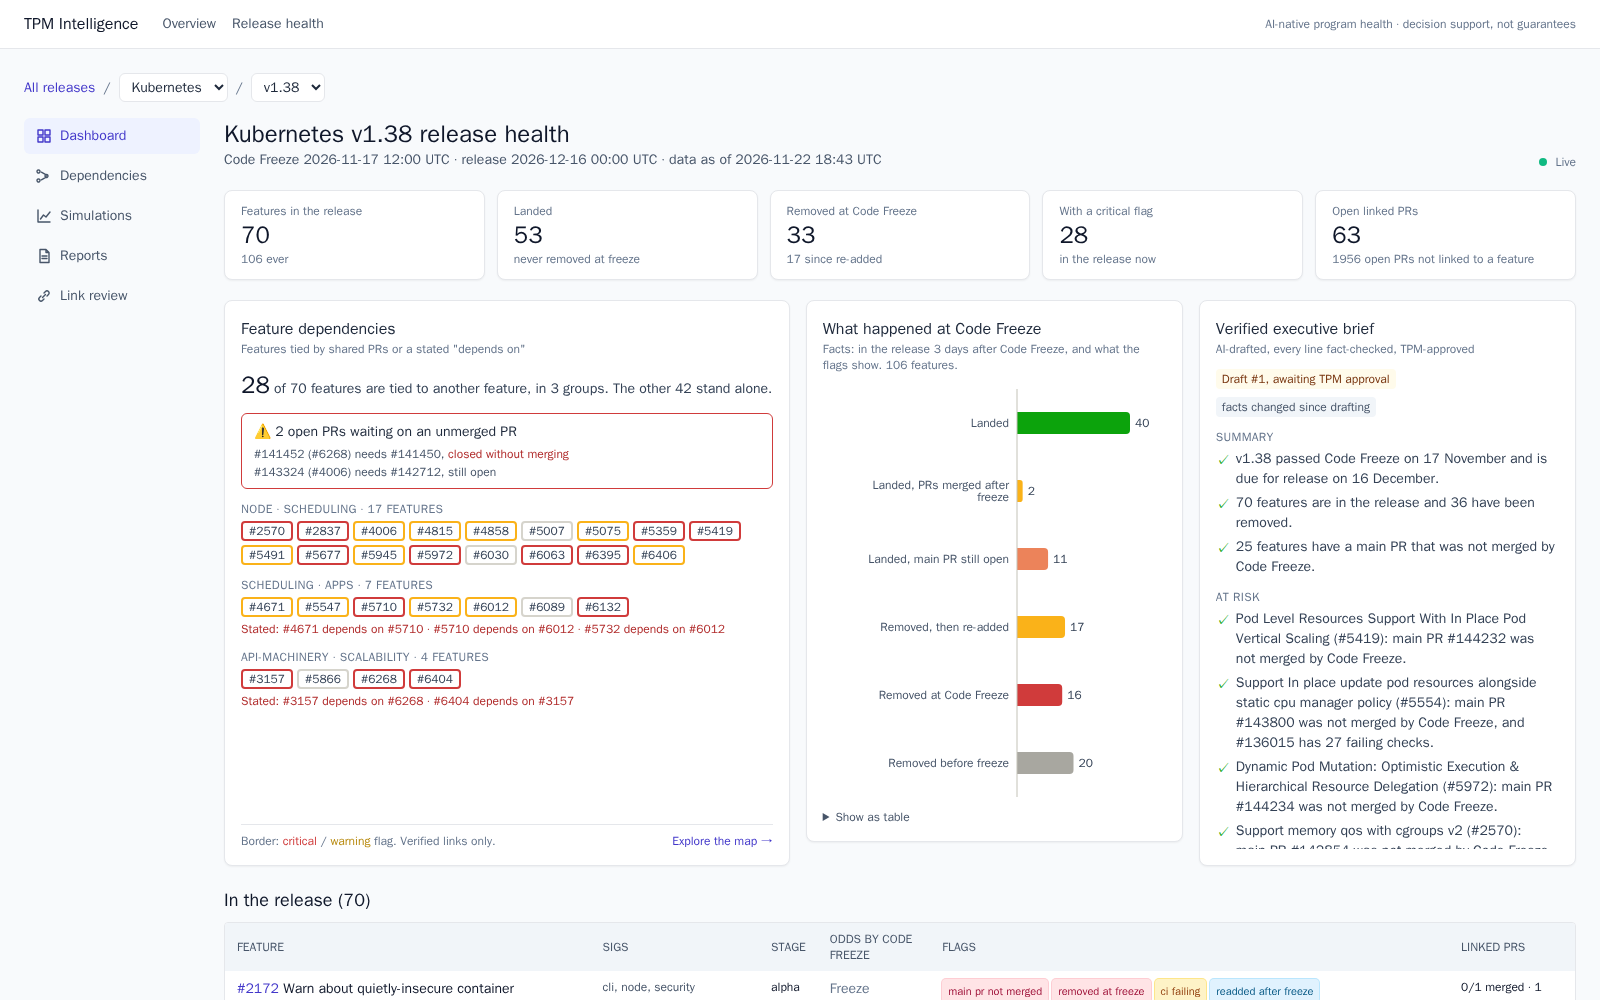
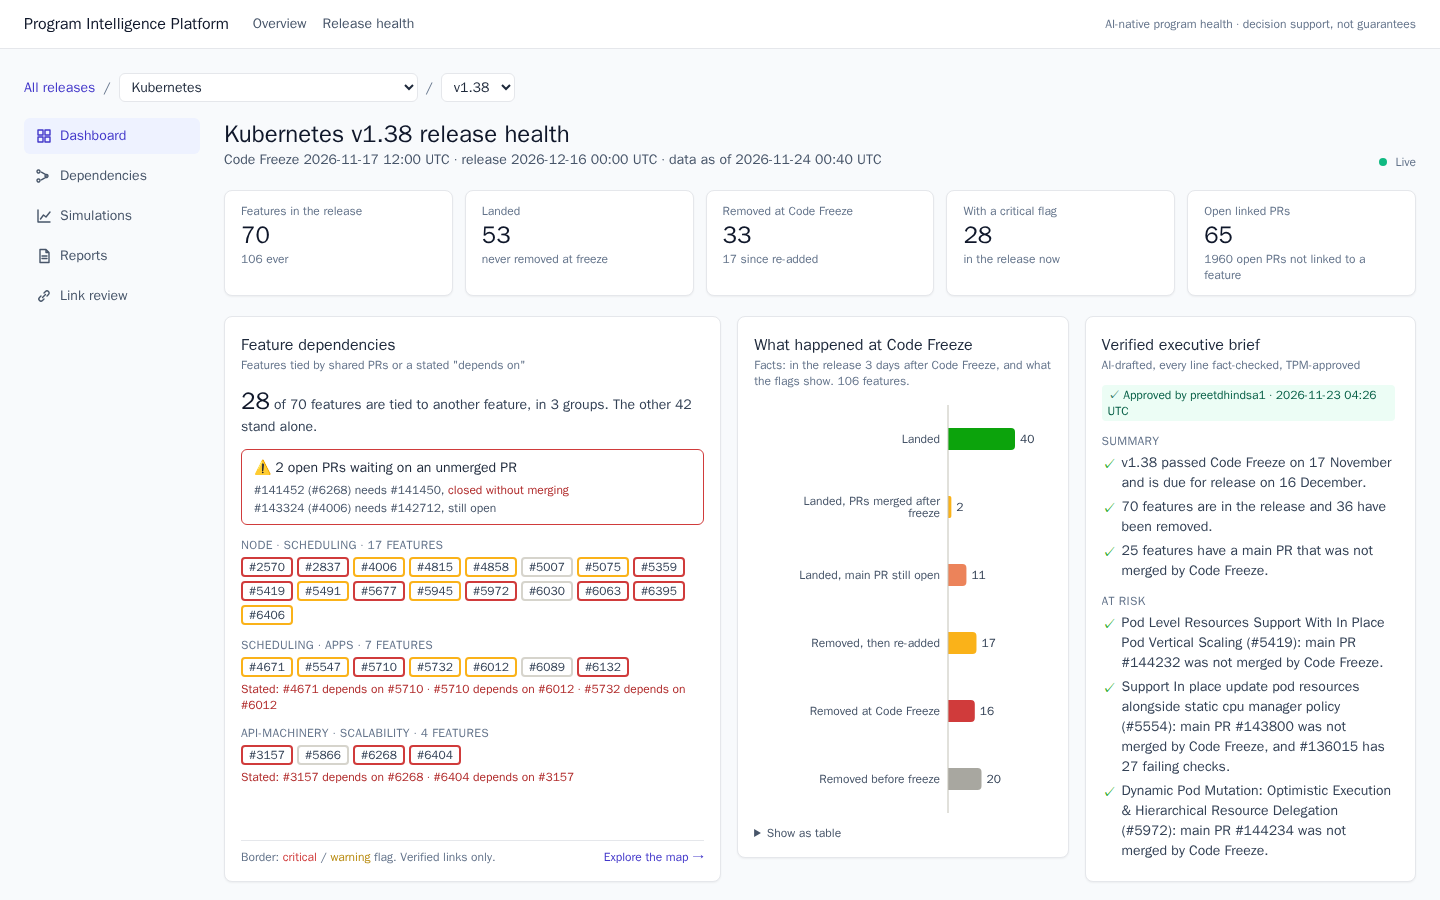
Rename follow-ups: fresh README screenshots; ADR-0017 points to the new URL
- docs/images/front-page.png and dashboard-v1.38.png retaken from the live
  site (they still showed 'TPM Intelligence'). merge-dates-v1.38.png has no
  product name and is unchanged.
- ADR-0017 keeps its history and adds a pointer to the current URL.

diff --git a/docs/decisions/ADR-0017-lean-cloud-deploy.md b/docs/decisions/ADR-0017-lean-cloud-deploy.md
@@ -67,7 +67,7 @@ lean option with a ceiling of about $150/month. Two measurements also matter:
 ## First deploy (2026-11-23)
 
 Run by `infra/first-deploy.sh --yes --with-local-secrets --seed-local-data`. Live:
-web `https://tpm-intelligence-109199755245.us-central1.run.app` (renamed from `tpm-web` on 2026-11-23 at the owner's request), API
+web `https://tpm-intelligence-109199755245.us-central1.run.app` (renamed from `tpm-web` on 2026-11-23 at the owner's request) (renamed again later that day to `https://program-intelligence-platform-109199755245.us-central1.run.app`, ADR-0021), API
 `https://tpm-api-109199755245.us-central1.run.app`. Seeded from the local database:
 Kubernetes v1.33-v1.38 and Kafka 4.4.0/4.5.0 (counts match local: v1.38 70/106,
 Kafka 4.4.0 19/26). First requests after warm-up: v1.38 features 1.1 s, Kafka 4.4.0
